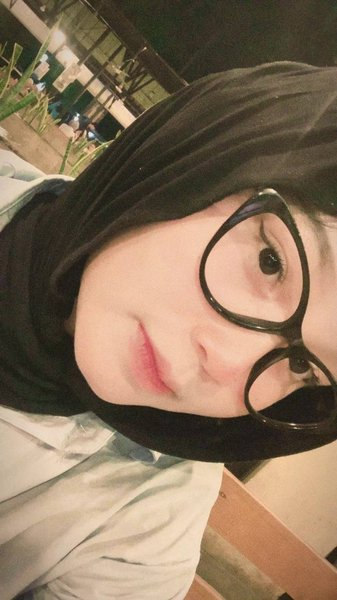
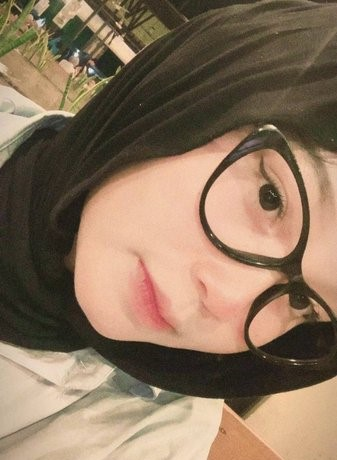
merubah poto desta dan dafa

diff --git a/js/main.js b/js/main.js
@@ -149,7 +149,7 @@
         "cerdas.jpg",                // 08 - cerdas abdul jabar
         "Holik.jpg",                // 09 - dandy fahri
         "dehan.jpeg",          // 10 - dehan fadilah
-        "Desta.jpg",         // 11 - desta ginanjar
+        "desta.jpeg",         // 11 - desta ginanjar
         "dila.jpeg",          // 12 - dila fitriani
         "eva.jpeg",             // 13 - eva rahayu
         "farhan.jpg",                // 14 - Farhan arya zaelani
@@ -157,7 +157,7 @@
         "Jaspy.jpg",    // 16 - jaspy gema ramadhan
         "",                // 17 - karina mulyasari
         "lala.jpeg",       // 18 - latifah ulumiyah
-        "muhtar.jpg",         // 19 - muhammad daffa al muhtar
+        "dapa.jpg",         // 19 - muhammad daffa al muhtar
         "nadya.jpeg",        // 20 - nadya salsabila
         "nopal.jpg",    // 21 - naufal aydin nashif
         "najwa o.jpeg",          // 22 - nazwa ocktara aryanti
